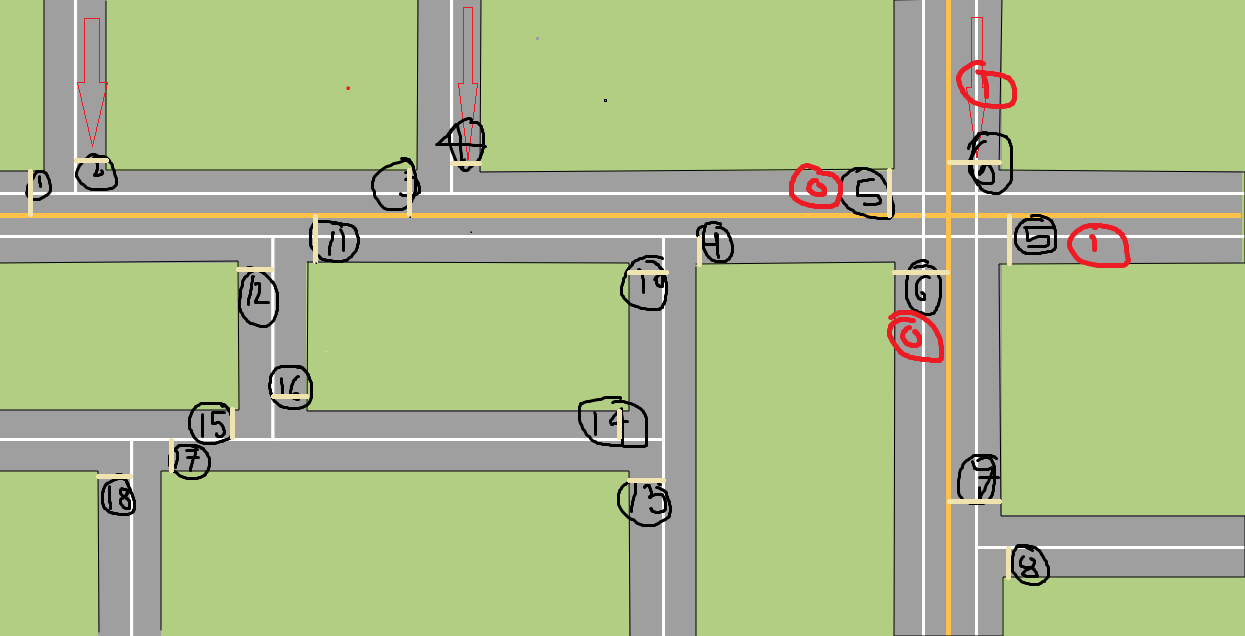
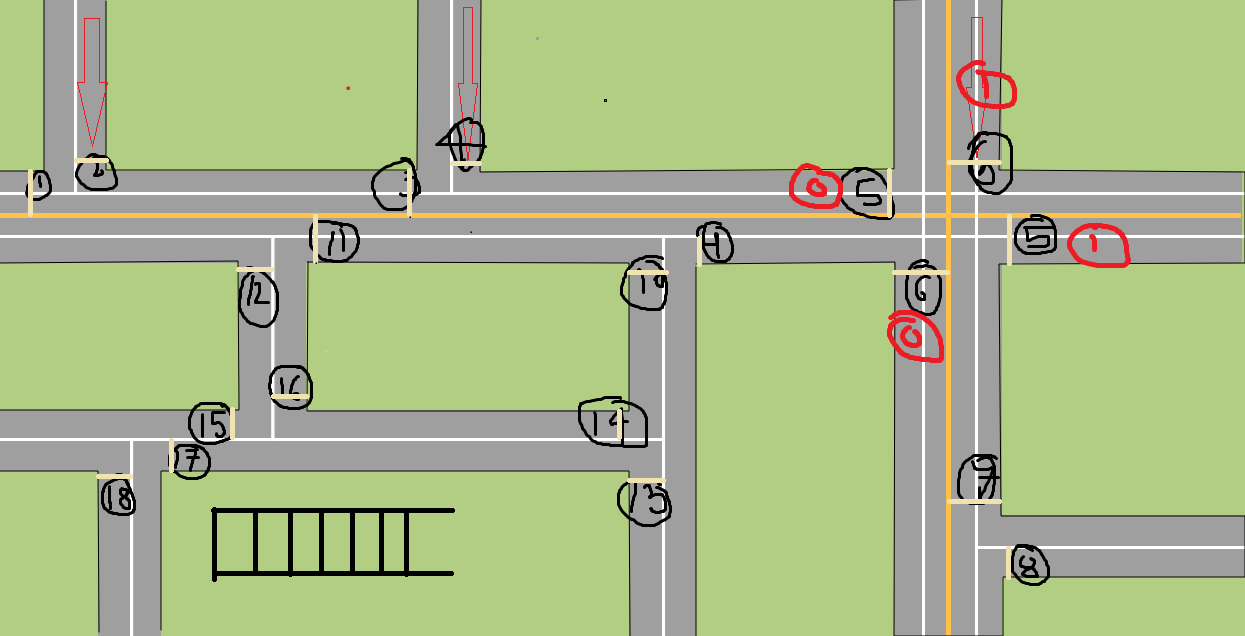
PROJECT DONE

Changed region(s): [[0.1526, 0.7767, 0.3663, 0.9261]]

diff --git a/game.py b/game.py
@@ -1,4 +1,5 @@
 from random import random
+# from tkinter import Button
 import pygame
 from time import time
 from random import *
@@ -13,15 +14,48 @@ MAGENTA = (255, 0, 255)
 SILVER = (192, 192, 192)
 LIME = (124, 255, 0)
 
+
+
 # Initialize the game
 pygame.init()
+
+enabled = 20*[False]
 
 # Creating the screen
 screen = pygame.display.set_mode((1245, 636))
 
 maxCapBarrier = 1
 
+class Button:
+    """Create a button, then blit the surface in the while loop"""
 
+    def __init__(self, text,  pos, font, bg="black", feedback=""):
+        self.x, self.y = pos
+        self.font = pygame.font.SysFont("Arial", font)
+        if feedback == "":
+            self.feedback = "text"
+        else:
+            self.feedback = feedback
+        self.change_text(text, bg)
+
+    def change_text(self, text, bg="black"):
+        """Change the text whe you click"""
+        self.text = self.font.render(text, 1, pygame.Color("White"))
+        self.size = self.text.get_size()
+        self.surface = pygame.Surface(self.size)
+        self.surface.fill(bg)
+        self.surface.blit(self.text, (0, 0))
+        self.rect = pygame.Rect(self.x, self.y, self.size[0], self.size[1])
+
+    def show(self, x):
+        screen.blit(x.surface, (self.x, self.y))
+
+    def click(self, event, idx):
+        x, y = pygame.mouse.get_pos()
+        if event.type == pygame.MOUSEBUTTONDOWN:
+            if pygame.mouse.get_pressed()[0]:
+                if self.rect.collidepoint(x, y):
+                    enabled[idx] ^= True
 class Signal:
     def __init__(self, isRed, road_no, coors, barrier):
         self.coors = coors
@@ -346,6 +380,8 @@ valid_points_to_generate = [
 
 def rand_car():
     idx = randint(0, len(valid_points_to_generate) - 1)
+    if not enabled[idx]:
+        return
     line = valid_points_to_generate[idx]
     x, y = -1, -1
     if line[2] == "V":
@@ -488,7 +524,7 @@ initialize_signals()
 wait_array = 20*[0]
 def flip_caller():
     isRed = flip_signal(wait_array=wait_array)
-    print(isRed)
+    # print(isRed)
     for i in range(1, 19):
         signals[i].isRed = isRed[i]
         signals[i].queue = []
@@ -503,13 +539,106 @@ def increment_wait_time():
 timer = 1
 start_time_barrier = time()
 
+button1 = Button(
+    "1",
+    (214, 509),
+    font=30,
+    bg="navy",
+    feedback="1 disabled"
+)
+button2 = Button(
+    "2",
+    (253, 509),
+    font=30,
+    bg="navy",
+    feedback="2 disabled"
+)
+button3 = Button(
+    "3",
+    (290, 509),
+    font=30,
+    bg="navy",
+    feedback="3 disabled"
+)
+button4 = Button(
+    "4",
+    (330, 509),
+    font=30,
+    bg="navy",
+    feedback="4 disabled"
+)
+button5 = Button(
+    "5",
+    (370, 509),
+    font=30,
+    bg="navy",
+    feedback="5 disabled"
+)
+
+button6 = Button(
+    "6",
+    (400, 509),
+    font=30,
+    bg="navy",
+    feedback="1 disabled"
+)
+button7 = Button(
+    "7",
+    (430, 509),
+    font=30,
+    bg="navy",
+    feedback="2 disabled"
+)
+button8 = Button(
+    "8",
+    (460, 509),
+    font=30,
+    bg="navy",
+    feedback="3 disabled"
+)
+button9 = Button(
+    "9",
+    (490, 509),
+    font=30,
+    bg="navy",
+    feedback="4 disabled"
+)
+button10 = Button(
+    "10",
+    (520, 509),
+    font=30,
+    bg="navy",
+    feedback="5 disabled"
+)
+
 while running:
     screen.blit(image, (0, 0))
     for event in pygame.event.get():
         if event.type == pygame.QUIT:
             running = False
             break
+        button1.click(event, 1)
+        button2.click(event, 2)
+        button3.click(event, 3)
+        button4.click(event, 4)
+        button5.click(event, 5)
+        button6.click(event, 6)
+        button7.click(event, 7)
+        button8.click(event, 8)
+        button9.click(event, 9)
+        button10.click(event, 10)
+        
     now_time = time()
+    button1.show(button1)
+    button2.show(button2)
+    button3.show(button3)
+    button4.show(button4)
+    button5.show(button5)
+    button6.show(button6)
+    button7.show(button7)
+    button8.show(button8)
+    button9.show(button9)
+    button10.show(button10)
     if(now_time - start_time > 1):
         rand_car()
         rand_car()

diff --git a/main.py b/main.py
@@ -3,7 +3,7 @@ def flip_signal(wait_array):
     for i in range(1, 19, 2):
         sig1 = wait_array[i]
         sig2 = wait_array[i+1]
-        if sig1 <= sig2:
+        if sig1 < sig2:
             isRed[i] = True
         else:
             isRed[i+1] = True
